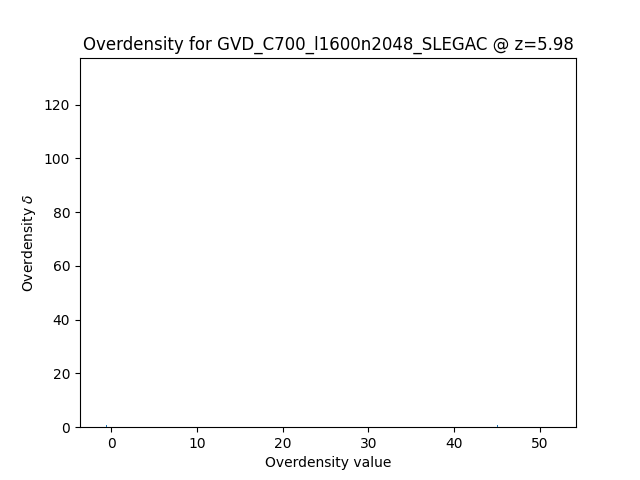
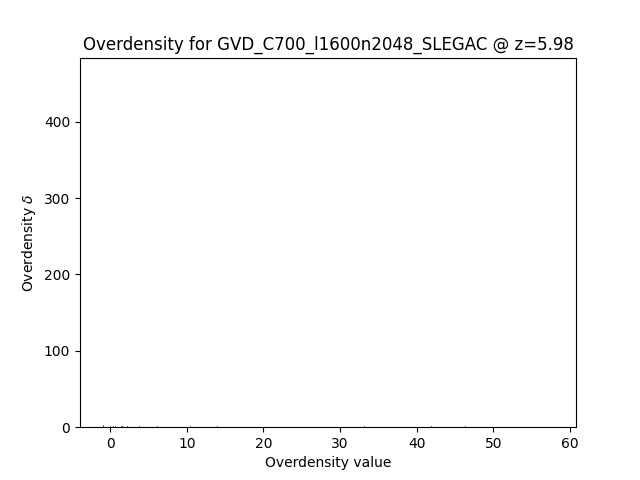
Squashed commit of the following:
commit 8db4de360fce36eefd8188b698279feb503168c8
Author: Tiernan8r <tiernan8r@pm.me>
Date:   Tue Jun 28 12:17:31 2022 +0100

    reduce the number of histogram bins to use by default

commit 3fd0b1d20fc85ec3e2e0cfc635d8cc5e4cbd9574
Author: Tiernan8r <tiernan8r@pm.me>
Date:   Tue Jun 28 12:17:12 2022 +0100

    use the massive configuration by default in calculations.sh

commit acee16d1fcbebb603a57bd249a4a5346f1473732
Author: Tiernan8r <tiernan8r@pm.me>
Date:   Tue Jun 28 12:16:41 2022 +0100

    fixes to how fig/ax labels & title set in plotting.py

commit 122757f426e4344f07284927c90f26564413a9e9
Author: Tiernan8r <tiernan8r@pm.me>
Date:   Tue Jun 28 12:16:20 2022 +0100

    more logging in plotting.py

commit 465dd84e40af4a40cf89589780b31ea1345beb6c
Author: Tiernan8r <tiernan8r@pm.me>
Date:   Tue Jun 28 12:15:57 2022 +0100

    remove tweaking mass units in total mass fn

commit c62df25327177fe95ef22f1ac61509991f7079d0
Author: Tiernan8r <tiernan8r@pm.me>
Date:   Tue Jun 28 12:15:36 2022 +0100

    tweak to plot title for total mass fn

commit e609566a787bfb85f1872f880aa497ae2ec28d2f
Author: Tiernan8r <tiernan8r@pm.me>
Date:   Tue Jun 28 12:15:18 2022 +0100

    use proper distance in calculations

commit c99317c723a62c5649b994e53da0558662712eb8
Author: Tiernan8r <tiernan8r@pm.me>
Date:   Tue Jun 28 12:14:47 2022 +0100

    set number of hist bins to use in total mass function

commit 0a0785fc5a96afd1cebba332bb7a925da9146a29
Author: Tiernan8r <tiernan8r@pm.me>
[…]

diff --git a/code/calculations.py b/code/calculations.py
@@ -122,11 +122,12 @@ def total_mass_function(rck):
     # Cache the masses if they are not already
     _cache_total_mass_function(rck)
 
-    # Get the cached values
-    masses = CACHE[rck][TOTAL_MASS_FUNCTION_KEY]
+    # Get the cached values, the _cache_total_mass_function() method can error,
+    # so need to use the get() notation
+    masses = CACHE[rck].get(TOTAL_MASS_FUNCTION_KEY, [])
 
     # Calculate the histogram of the masses
-    hist, bins = np.histogram(masses)
+    hist, bins = np.histogram(masses, bins=CONFIG.num_hist_bins)
 
     # Filter hist/bins for non-zero masses
     valid_idxs = np.where(hist > 0)
@@ -134,18 +135,18 @@ def total_mass_function(rck):
     bins = bins[valid_idxs]
 
     # Get the redshift from the cache
-    z = CACHE[rck][REDSHIFT_KEY]
+    z = CACHE[rck].get(REDSHIFT_KEY, 99)
     # Calculate the expansion coefficient
     a = 1 / (1+z)
 
     # Calculate the area of the box (is a cube)
-    V = (ds.domain_width[0] * a)**3
+    V = (ds.domain_width[0])**3
 
     # Divide the number of halos per bin by the volume to get the number density
     hist = hist / V
 
     # Set the parameters used for the plotting & plot the mass function
-    title = f"Total Mass Function for @ z={z:.2f}"
+    title = f"Total Mass Function for z={z:.2f}"
     save_dir = MASS_FN_PLOTS_DIR.format(CONFIG.sim_name)
     plot_name = (MASS_FN_PLOTS_DIR +
                  "total_mass_function_z{1:.2f}.png").format(CONFIG.sim_folder, z)
@@ -171,7 +172,7 @@ def _cache_total_mass_function(rck: str):
     ds = DATASET_CACHE.load(rck)
 
     # If a value for the calculation doesn't exist in the cache, need to calculate it...
-    if TOTAL_MASS_FUNCTION_KEY not in CACHE[rck]:
+    if TOTAL_MASS_FUNCTION_KEY not in CACHE[rck] or not CONFIG.use_total_masses_cache:
 
         logger.debug(f"No masses cached for '{rck}' data set, caching...")
 
@@ -185,7 +186,7 @@ def _cache_total_mass_function(rck: str):
             return
 
         # Get the halo virial masses from the data
-        masses = ad["halos", "particle_mass"].to(ds.units.Msun / ds.units.h)
+        masses = ad["halos", "particle_mass"]
 
         # Also store the redshift of this data set if it isn't cached already
         if REDSHIFT_KEY not in CACHE[rck]:
@@ -218,7 +219,7 @@ def halo_work(rck: str, radius: float):
     logger.info("Working on rho_bar value:")
 
     # Calculate the density of the entire region if is not cached...
-    if RHO_BAR_KEY not in CACHE[rck]:
+    if RHO_BAR_KEY not in CACHE[rck] or not CONFIG.use_overdensities_cache:
         logger.debug(
             f"No entries found in cache for '{RHO_BAR_KEY}', calculating...")
 
@@ -261,7 +262,7 @@ def halo_work(rck: str, radius: float):
     num_sphere_samples = CONFIG.num_sphere_samples
 
     # If there isn't an entry for this radius sample size, need to do full sampling
-    if radius not in CACHE[rck][OVERDENSITIES_KEY]:
+    if radius not in CACHE[rck][OVERDENSITIES_KEY] or not CONFIG.use_overdensities_cache:
         logger.debug(
             f"No entries found in cache for '{OVERDENSITIES_KEY}', calculating...")
 
@@ -298,7 +299,7 @@ def halo_work(rck: str, radius: float):
         CACHE[rck][MASS_FUNCTION_KEY] = {}
 
     # If the radius key is missing, need to do a full sample run
-    if radius not in CACHE[rck][MASS_FUNCTION_KEY]:
+    if radius not in CACHE[rck][MASS_FUNCTION_KEY] or not CONFIG.use_masses_cache:
         logger.debug(
             f"No entries found in cache for '{MASS_FUNCTION_KEY}', calculating...")
 
@@ -367,7 +368,7 @@ def _calc_rho_bar(rck):
     ad = DATASET_CACHE.all_data(rck)
 
     # Get the average density over the region
-    rho_bar = ad.quantities.total_mass()[1] / (sim_size*a)**3
+    rho_bar = ad.quantities.total_mass()[1] / (sim_size)**3
 
     logger.debug(f"Calculated a rho_bar of '{rho_bar}' for dataset '{rck}'")
 
@@ -402,7 +403,7 @@ def _calc_overdensities(rck, radius, rho_bar, existing: unyt.unyt_array = None):
     logger.debug(f"Redshift z={z}")
 
     # Calculate the volume of the spheres that we sample on
-    V = 4/3 * np.pi * (a*R)**3
+    V = 4/3 * np.pi * (R)**3
 
     # Get the size of the simulation
     sim_size = (ds.domain_width[0]).to(dist_units)

diff --git a/code/configuration.py b/code/configuration.py
@@ -6,13 +6,13 @@ from typing import Any, Dict, List
 
 import yaml
 
-from constants import (CONF_KEY_NUM_HIST_BINS, CONF_KEY_NUM_OD_HIST_BINS,
+from constants import (CONF_KEY_CACHE_MASS, CONF_KEY_CACHE_OD, CONF_KEY_CACHE_TOTAL, CONF_KEY_NUM_HIST_BINS, CONF_KEY_NUM_OD_HIST_BINS,
                        CONF_KEY_NUM_SPHERE_SAMPLES, CONF_KEY_RADII,
                        CONF_KEY_REDSHIFTS, CONF_KEY_ROOT, CONF_KEY_SIM_NAME,
                        CONFIGURATION_FILE)
 from defaults import (DEF_NUM_HIST_BINS, DEF_NUM_OD_HIST_BINS,
                       DEF_NUM_SPHERE_SAMPLES, DEF_RADII, DEF_REDSHIFTS,
-                      DEF_ROOT, DEF_SIM_NAME)
+                      DEF_ROOT, DEF_SIM_NAME, DEF_USE_MASSES_CACHE, DEF_USE_OVERDENSITIES_CACHE, DEF_USE_TOTAL_MASSES_CACHE)
 
 
 def new(args: List[str]) -> Configuration:
@@ -23,7 +23,8 @@ def new(args: List[str]) -> Configuration:
     if len(args) > 0:
         config_file = args[0]
 
-    logger.debug(f"Attempting to create Configuration object with config file='{config_file}'")
+    logger.debug(
+        f"Attempting to create Configuration object with config file='{config_file}'")
 
     # Return the default Configuration if there was an issue reading
     # the provided file, eg: doesn't exist, or yaml loading error
@@ -81,3 +82,15 @@ class Configuration:
     @property
     def path(self):
         return os.path.join(self.root, self.sim_folder)
+
+    @property
+    def use_total_masses_cache(self):
+        return self._config.get(CONF_KEY_CACHE_TOTAL, DEF_USE_TOTAL_MASSES_CACHE)
+
+    @property
+    def use_masses_cache(self):
+        return self._config.get(CONF_KEY_CACHE_MASS, DEF_USE_MASSES_CACHE)
+
+    @property
+    def use_overdensities_cache(self):
+        return self._config.get(CONF_KEY_CACHE_OD, DEF_USE_OVERDENSITIES_CACHE)

diff --git a/code/plotting.py b/code/plotting.py
@@ -47,21 +47,29 @@ def plot_mass_function(hist, bin_edges, title, save_dir, plot_f_name):
     if not yt.is_root():
         return
 
+    logger = logging.getLogger(__name__ + "." + plot_mass_function.__name__)
+
     x = np.log(bin_edges)
     y = np.log(hist)
 
-    plt.plot(x, y)
-    plt.gca().set_xscale("log")
+    fig = plt.figure()
+    ax = fig.gca()
 
-    plt.title(title)
-    plt.xlabel("$\log{M_{vir}}$")
-    plt.ylabel("$\phi=\\frac{d \log{n}}{d \log{M_{vir}}}$")
+    ax.plot(x, y)
+    ax.set_xscale("log")
+
+    fig.suptitle(title)
+    ax.set_xlabel("$\log{M_{vir}}$")
+    ax.set_ylabel("$\phi=\\frac{d \log{n}}{d \log{M_{vir}}}$")
 
     # Ensure the folders exist before attempting to save an image to it...
     if not os.path.isdir(save_dir):
         os.makedirs(save_dir)
 
-    plt.savefig(plot_f_name)
+    fig.savefig(plot_f_name)
+
+    logger.debug(f"Saved mass function figure to '{plot_f_name}'")
+
     plt.cla()
     plt.clf()
 
@@ -70,15 +78,23 @@ def plot_delta(deltas, num_bins, title, save_dir, plot_f_name):
     if not yt.is_root():
         return
 
-    plt.hist(deltas, bins=num_bins)
+    logger = logging.getLogger(__name__ + "." + plot_delta.__name__)
 
-    plt.title(title)
-    plt.xlabel("Overdensity value")
-    plt.ylabel("Overdensity $\delta$")
+    fig = plt.figure()
+    ax = fig.gca()
+
+    ax.hist(deltas, bins=num_bins)
+
+    fig.suptitle(title)
+    ax.set_xlabel("Overdensity value")
+    ax.set_ylabel("Overdensity $\delta$")
 
     if not os.path.isdir(save_dir):
         os.makedirs(save_dir)
 
-    plt.savefig(plot_f_name)
+    fig.savefig(plot_f_name)
+
+    logger.debug(f"Saved overdensity plot to '{plot_f_name}'")
+
     plt.cla()
     plt.clf()

diff --git a/code/constants.py b/code/constants.py
@@ -14,6 +14,9 @@ CONF_KEY_RADII = "radii"
 CONF_KEY_REDSHIFTS = "redshifts"
 CONF_KEY_ROOT = "root"
 CONF_KEY_SIM_NAME = "simulation_name"
+CONF_KEY_CACHE_TOTAL = "use_total_cache"
+CONF_KEY_CACHE_MASS = "use_masses_cache"
+CONF_KEY_CACHE_OD = "use_overdensities_cache"
 
 # Plot save path parameters
 
@@ -27,7 +30,7 @@ OVERDENSITY_PLOTS_FNAME_PTRN = OVERDENSITY_PLOTS_DIR + \
 
 # Constants for helpers.py:
 
-ROOT = "/disk12/legacy"
+ROOT = "/disk12/legacy/"
 
 # All data set names
 DATA_SETS = [

diff --git a/code/helpers.py b/code/helpers.py
@@ -107,7 +107,7 @@ def determine_redshifts(sim_name: str) -> Dict[float, str]:
                         z = (1 / a_val) - 1
 
                         logger.debug(
-                            f"Read a readshift of z={z} from '{file}'")
+                            f"Read a redshift of z={z} from '{file}'")
 
                         map[z] = rockstar_ascii_reg.match(file).group(2)
 

diff --git a/code/defaults.py b/code/defaults.py
@@ -11,3 +11,8 @@ DEF_NUM_OD_HIST_BINS = 1000
 
 DEF_REDSHIFTS = [0, 1, 2, 6, 10]
 DEF_RADII = [10, 20, 50, 100]
+
+# Caching access defaults:
+DEF_USE_TOTAL_MASSES_CACHE = True
+DEF_USE_MASSES_CACHE = True
+DEF_USE_OVERDENSITIES_CACHE = True
